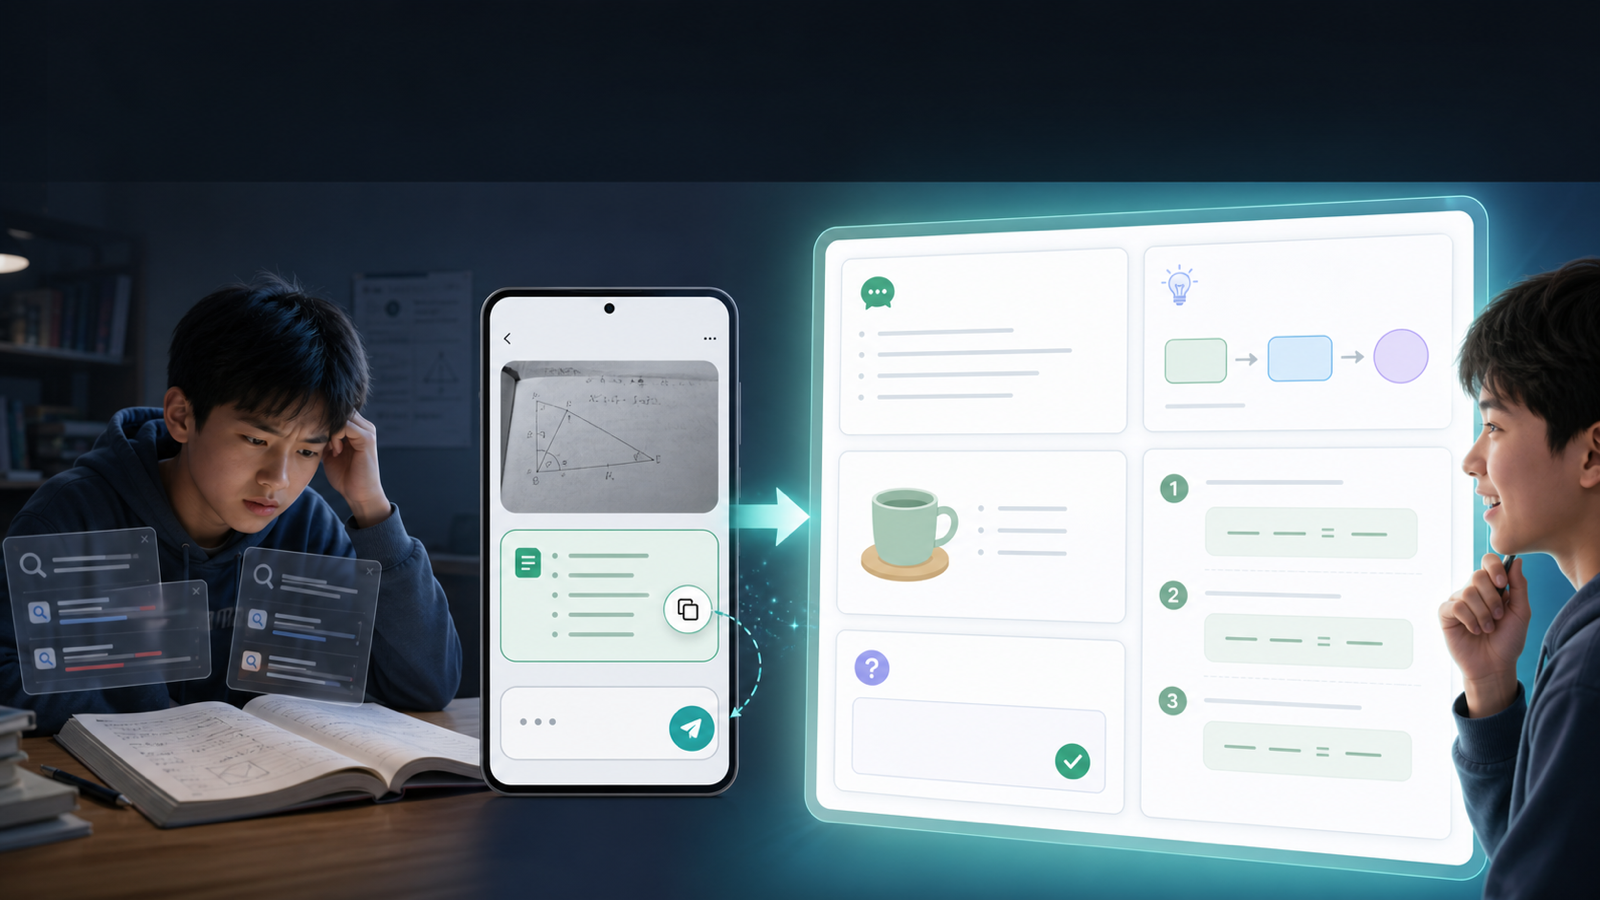
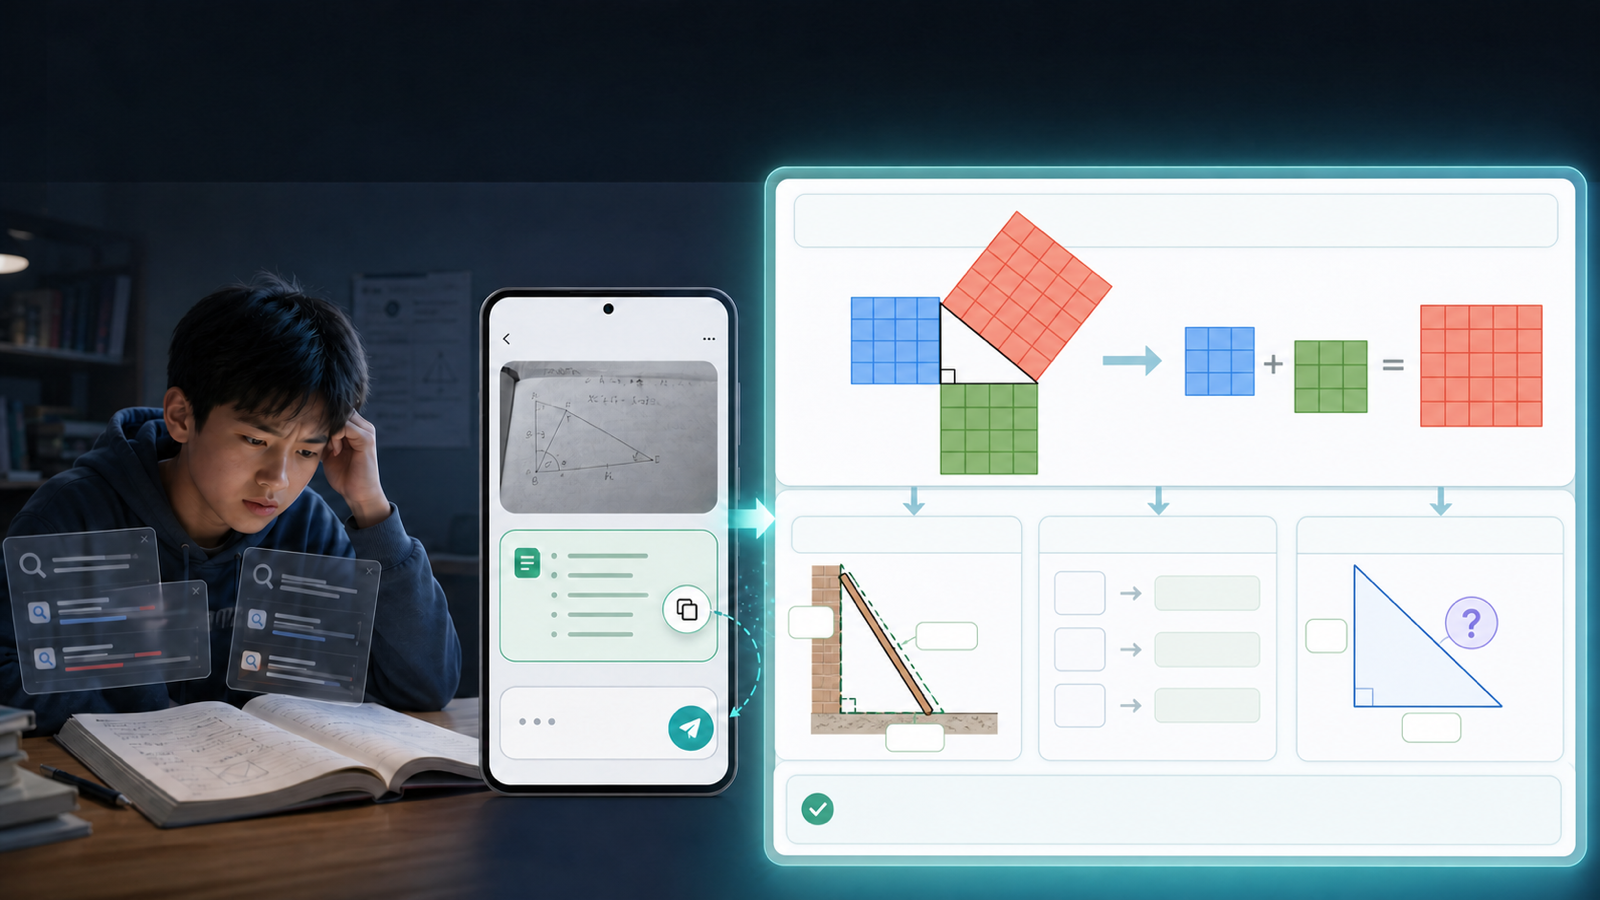
docs: show a concrete generated lesson in hero

diff --git a/assets/hero-image-prompt.md b/assets/hero-image-prompt.md
@@ -2,73 +2,74 @@
 
 ## Positioning
 
-**Show the result, not just the concept:** a student copies one reusable Prompt with a question and receives a complete teacher-like explanation.
+**Show one complete generated lesson instead of a generic list of answer types.**
 
-- Pain: searched many answers, but still does not understand.
-- Action: copy the Prompt and send it with the question.
-- Visible outcome: AI explains the idea in plain language, gives the reason, uses a real-life analogy, solves it step by step, and checks understanding.
+- Pain: the student searched for answers but still does not understand.
+- Action: copy the reusable Prompt and send it with the question.
+- Generated lesson: visualize the concept, connect it to real life, calculate step by step, and finish with a new understanding-check problem.
+- Concrete example: teach the Pythagorean theorem through a 3–4–5 triangle, a ladder against a wall, exact calculations, and a 6–8–? practice question.
 
-## Image generation prompt
+## Image generation / editing prompt
 
 ```text
-Use case: ads-marketing
-Asset type: 16:9 GitHub README hero and Chinese social-media cover
+Edit the provided 16:9 hero image. Preserve the LEFT student scene, CENTER phone input scene, glowing send arrow, overall lighting, color grading, and empty dark top typography band as closely as possible. Do not redesign the left half. Change only the RIGHT-SIDE output area so it demonstrates one concrete AI-generated lesson that is obviously easy to understand.
 
-Create a polished premium editorial illustration for an open-source AI learning prompt project. The image must clearly show not only the prompt input, but also the structured answer produced after using it.
+RIGHT-SIDE REPLACEMENT — one coherent Pythagorean-theorem mini lesson:
+Remove the smiling student at the far right and expand the bright AI tutoring dashboard to use nearly the entire right half. The dashboard should feel like a beautiful visual answer generated by a patient teacher, not a generic list of cards.
 
-COMPOSITION PRIORITY:
-The RIGHT-SIDE AI answer dashboard must occupy about 52–58% of the canvas and be the single largest, clearest visual element. The left student and center input device should be smaller. The complete flow must read instantly from left to right: stuck student → copy prompt with question → complete teacher-like explanation.
+Create four connected teaching stages inside one polished white-and-mint dashboard, with clear visual hierarchy and generous blank label areas for exact typography to be added later:
 
-LEFT:
-Show a natural-looking 12–14-year-old Chinese student studying alone, frustrated after searching through several confusing answers. Use cool, dark gray-blue lighting. The student has an open workbook and looks stuck, but not dramatically sad. Show a few abstract, unreadable search-result cards around the workbook.
+STAGE A — SEE THE IDEA, largest card across the upper portion:
+Show a clean right triangle with a right-angle marker and three colored squares attached to its three sides. The two smaller squares are visibly made of unit tiles and visually combine into the largest square. Use distinct blue, green, and warm coral colors. Add a simple visual arrow showing the areas of the two smaller squares combining into the larger square. Leave a wide blank header strip above the diagram.
 
-CENTER:
-Show a clean smartphone or tablet interface receiving two distinct items: a photographed homework question and a reusable prompt card being copied into the conversation. Use a clear copy icon and send arrow. Keep all generated interface text abstract and unreadable. Make the transition arrow obvious but elegant.
+STAGE B — REAL-LIFE EXAMPLE, lower-left card:
+Show a clear illustrated ladder leaning against a wall, with the ground and wall forming a right angle. Leave three small blank measurement badges near the ground, wall, and ladder for exact 3 m, 4 m, and 5 m labels to be added later. Leave a blank card header.
 
-RIGHT:
-Create a bright, polished AI tutoring answer dashboard. It must contain exactly FIVE large, clearly separated, mostly blank content cards with generous empty label areas for typography to be added later:
-1. a plain-language explanation card with simple speech-bubble icon and short abstract lines;
-2. a why-it-works reasoning card with a small cause-and-effect diagram;
-3. a familiar real-life analogy card with simple everyday-object illustration;
-4. a step-by-step solution card with visible numbered steps 1, 2, 3 and abstract equations;
-5. a short understanding-check card with a question mark and check symbol.
+STAGE C — STEP-BY-STEP CALCULATION, lower-middle card:
+Show three large clean rows with mathematical layout placeholders and arrows, suitable for later overlay of: 3² + 4², 9 + 16, and square root of 25. Do not generate any readable numbers or equations yourself. Leave a blank card header.
 
-The five cards must look like meaningful parts of a complete tutoring answer, not decorative pictures and not a search-results list. Leave enough clean blank space at the top of every card for deterministic Chinese or English labels. A subtle teacher-like pointer or guiding hand may appear, but no teacher character should dominate the dashboard. Show the same Chinese student on the far right edge becoming relaxed and engaged, but do not let the person cover the answer cards.
+STAGE D — CHECK UNDERSTANDING, lower-right or bottom strip:
+Show a second simple right triangle with two blank side badges and a prominent question-mark badge on the hypotenuse, visually inviting the learner to solve a 6–8–? example. Include a small check icon and leave a blank header area.
 
-TOP TYPOGRAPHY ZONE:
-Reserve a quiet, dark translucent band across the upper 20–23% of the image with no faces, icons, or UI elements so exact headline and subtitle can be added later.
+Use subtle connecting arrows from Stage A to B to C to D so the answer reads as a teaching process: visual explanation → familiar life example → calculation → student practice. Keep every diagram large enough to understand at GitHub README thumbnail size.
 
-Style: modern premium editorial illustration, natural Chinese student, polished educational product visual, crisp UI cards, soft natural lighting, accessible contrast, warm blue-green clarity on the right, strong left-to-right transformation from confusion to clarity, professional and shareable, not childish.
+Style: polished premium educational product illustration, crisp vector-like diagrams inside a softly realistic dashboard, accessible contrast, bright warm blue-green output area, clear generous spacing. The right dashboard must be the main visual subject.
 
-Output: landscape 16:9, designed for 1600×900, important content kept within safe margins.
-
-Avoid all readable text, Chinese characters, English words, gibberish typography, logos, watermarks, robots, cyberpunk visuals, Western students, childish cartoon style, clutter, tiny cards, illegible UI, and an answer panel containing only decorative pictures.
+Strict constraints: do not change the Chinese student on the left, the phone and copied prompt in the center, or the top dark band. No readable Chinese or English text, no letters, no gibberish, no logos, no watermarks, no robots, no Western student, no decorative-only cards, no generic bullet list, no tiny diagrams.
 ```
 
-## Deterministic typography
+## Deterministic typography and math
+
+The image model creates the scene and card structure only. Add all labels, equations, measurements, and grids deterministically so the math is exact.
 
 Chinese:
 
-- Headline: `复制 Prompt 后，AI 会给你什么？`
-- Subtitle: `不是只给答案，而是像老师一样讲到你懂。`
-- Call to action: `一个 Prompt，获得一整套讲解`
-- Input label: `题目 + Prompt`
-- Transition label: `复制并发送`
-- Answer cards: `大白话解释` · `为什么` · `生活类比` · `分步解题` · `检查是否真懂`
+- Headline: `复制 Prompt 后，AI 会这样把题讲懂`
+- Subtitle: `看图理解 → 生活例子 → 分步计算 → 换一道题检查`
+- Call to action: `不是给答案，是带你学会`
+- Input: `题目 + Prompt` → `复制并发送`
+- Stage 1: `① 先看图：两个小正方形面积之和 = 大正方形面积`
+- Exact visual: a `3–4–5` right triangle and `3² = 9`, `4² = 16`, `5² = 25`
+- Stage 2: `② 生活例子：梯子靠墙`, labelled `3 米`, `4 米`, `5 米`
+- Stage 3: `③ 一步一步算`, with `3² + 4²` → `9 + 16` → `√25 = 5`
+- Stage 4: `④ 你来试试：6、8、？`
+- Summary: `看图 → 放进生活 → 一步一步算 → 换一题确认真的懂`
 
 English:
 
-- Headline: `What do you get after using the prompt?`
-- Subtitle: `Not just an answer—an explanation that teaches until it clicks.`
-- Call to action: `One prompt. A complete tutoring answer.`
-- Input label: `Question + Prompt`
-- Transition label: `Copy & send`
-- Answer cards: `Plain-language idea` · `Why it works` · `Real-life analogy` · `Step by step` · `Check your understanding`
+- Headline: `After the prompt, AI teaches you the idea`
+- Subtitle: `Visual explanation → real-life example → step-by-step math → a quick check`
+- Call to action: `Not just the answer—learn the method.`
+- Input: `Question + Prompt` → `Copy & send`
+- Stage 1: `See it: the two smaller square areas make the large one`
+- Stage 2: `Real-life example: a ladder`
+- Stage 3: `Work it out`
+- Stage 4: `Try it: 6, 8, ?`
 
 ## Output requirements
 
-- Canvas: 1600 × 900, landscape PNG.
-- Preserve the text-free generation as `hero-background.png`.
-- Add exact Chinese text in `hero.png` and English text in `hero.en.png`.
-- Keep the answer dashboard as the largest visual element.
-- No AI-generated typography, logos, watermarks, or branded interfaces.
+- Canvas: 1600 × 900 landscape PNG.
+- Preserve the text-free generated edit as `hero-background.png`.
+- Add exact Chinese content in `hero.png` and English content in `hero.en.png`.
+- Keep the generated lesson dashboard as the largest visual element.
+- Never rely on generated text, measurements, grids, or equations for mathematical accuracy.
